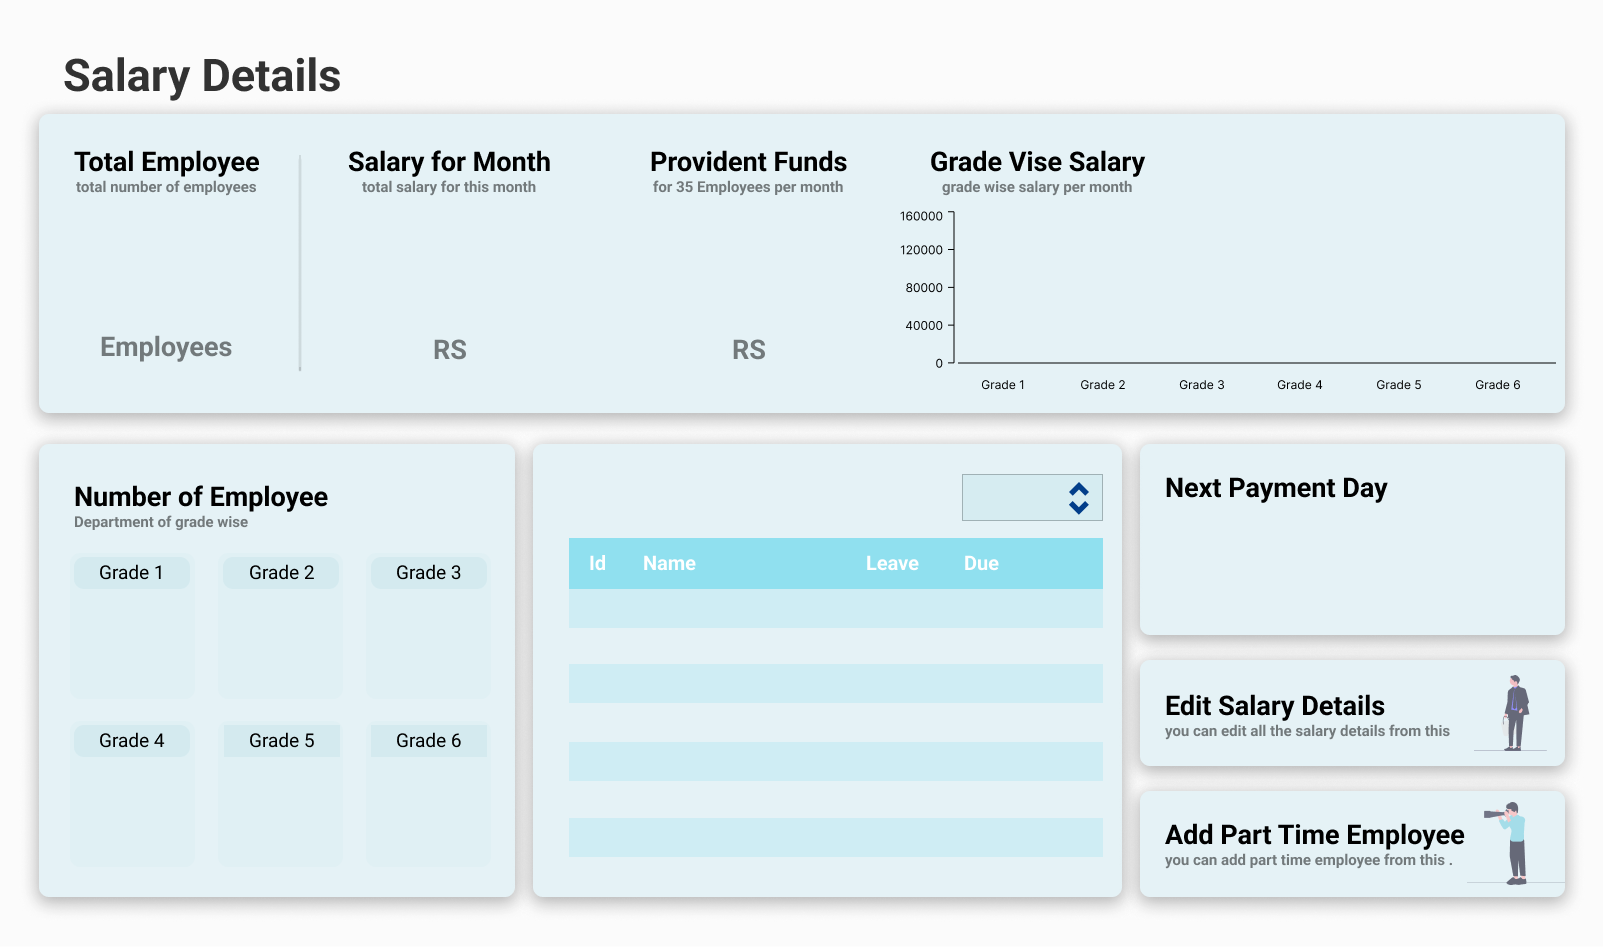
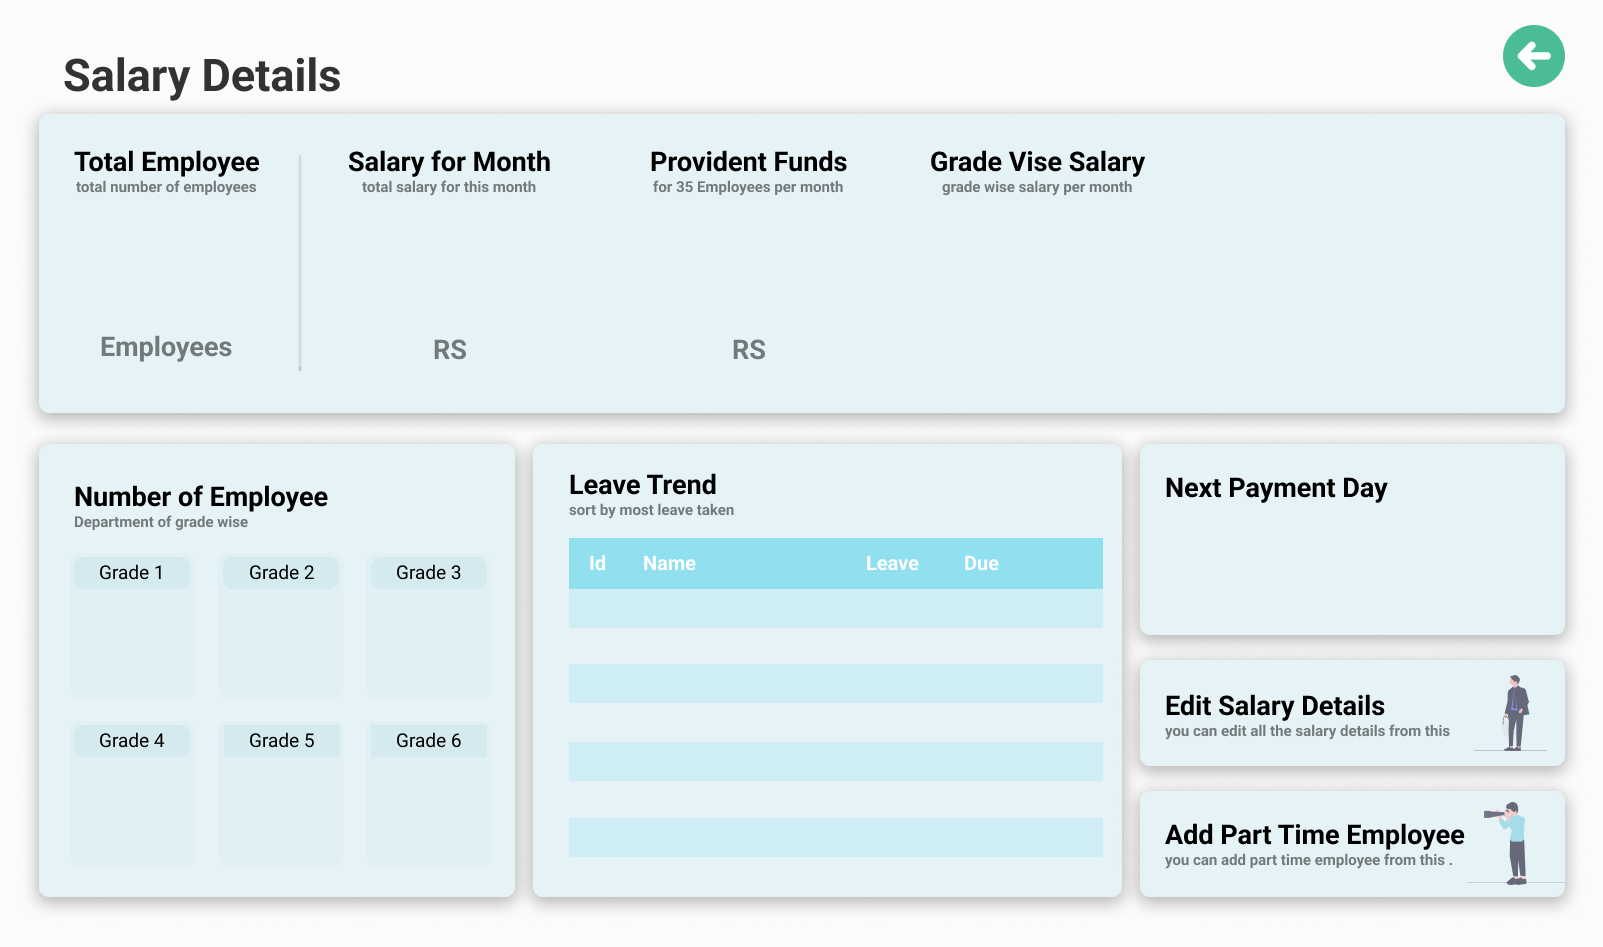
salaryDetailsForm.fxml finished

diff --git a/turtleCare/src/main/java/lk/ijse/controller/SalaryDetailsFormController.java b/turtleCare/src/main/java/lk/ijse/controller/SalaryDetailsFormController.java
@@ -1,11 +1,26 @@
 package lk.ijse.controller;
 
 import javafx.fxml.FXML;
+import javafx.fxml.FXMLLoader;
+import javafx.scene.input.MouseEvent;
 import javafx.scene.layout.AnchorPane;
+import javafx.scene.layout.Pane;
+
+import java.io.IOException;
+import java.util.Objects;
 
 public class SalaryDetailsFormController {
 
     @FXML
+    private Pane mo;
+
+    @FXML
     private AnchorPane salaryDetailsPane;
+
+    @FXML
+    void btnBackOnAction(MouseEvent event) throws IOException {
+        salaryDetailsPane.getChildren().clear();
+        salaryDetailsPane.getChildren().add(FXMLLoader.load(Objects.requireNonNull(this.getClass().getResource("/view/employeeDetailsForm.fxml"))));
+    }
 
 }
